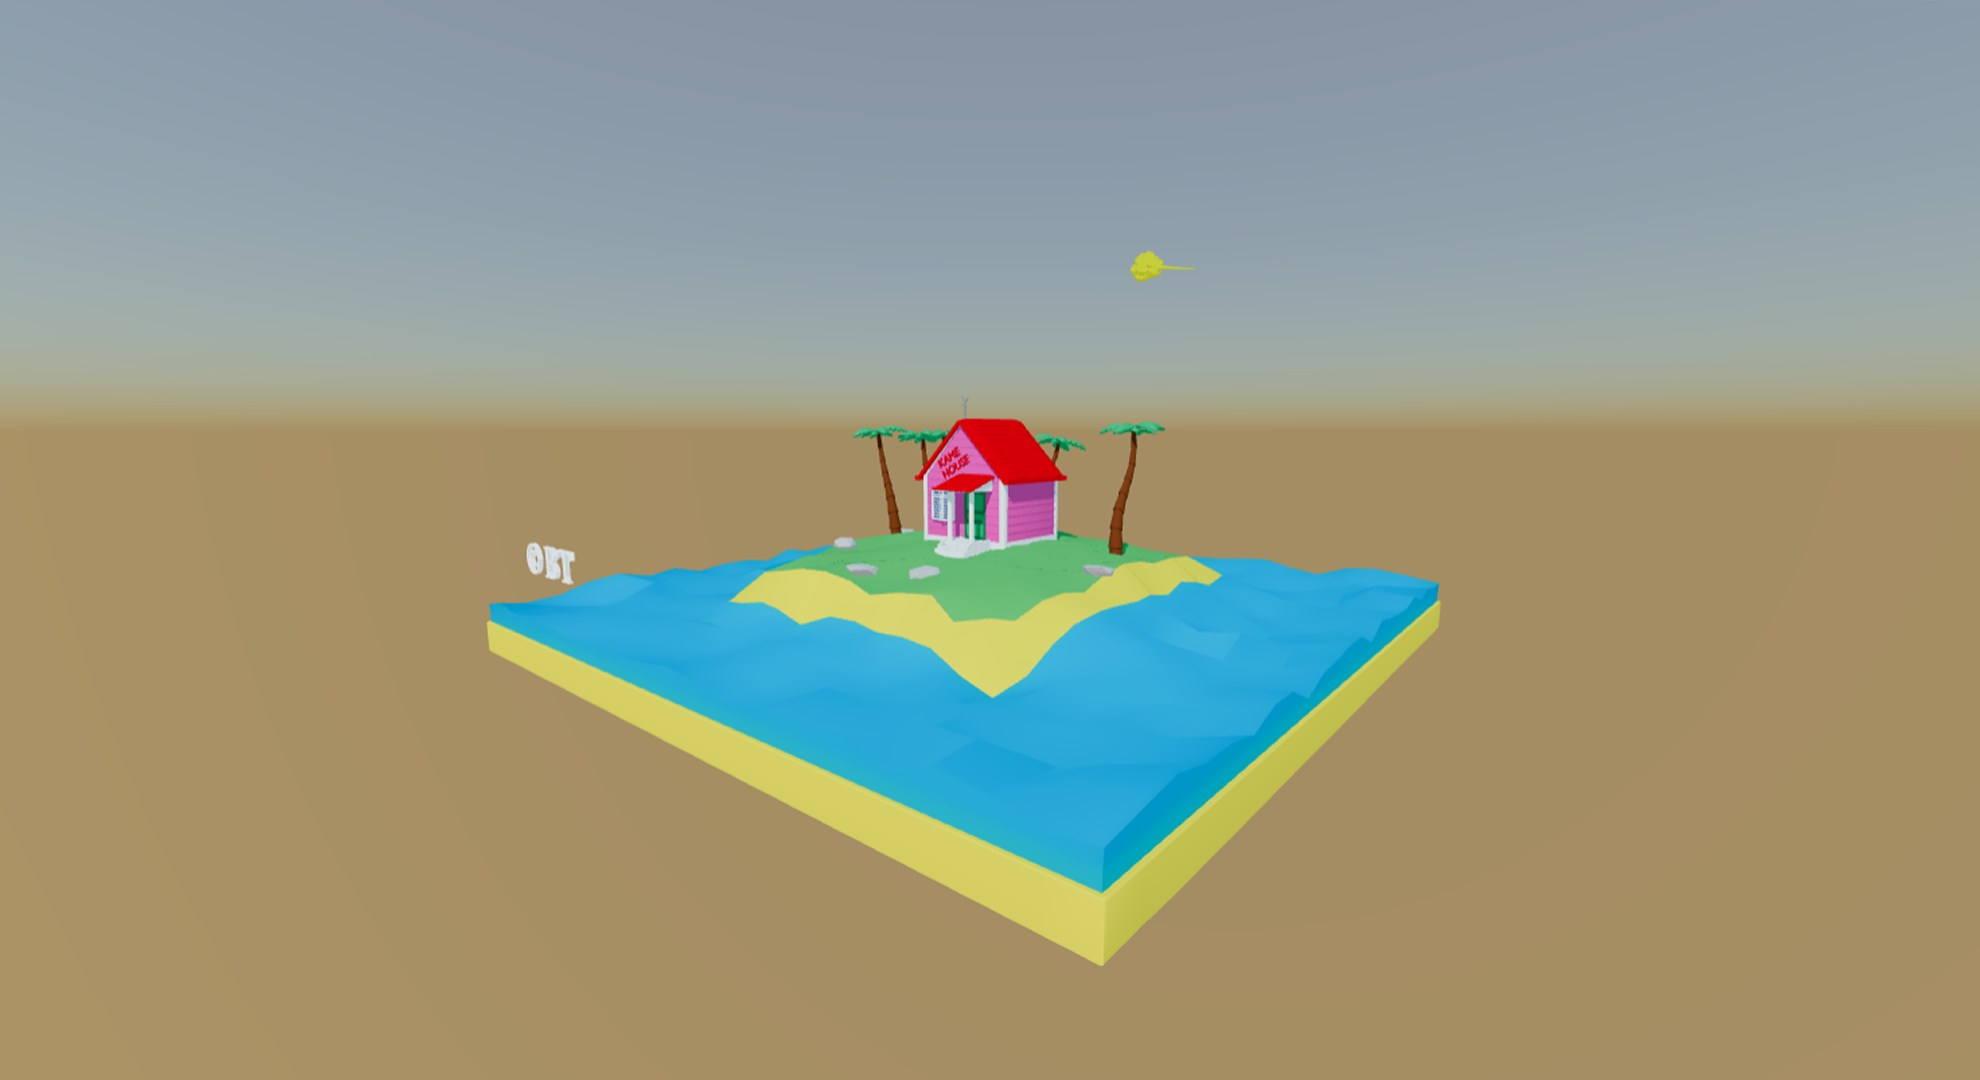
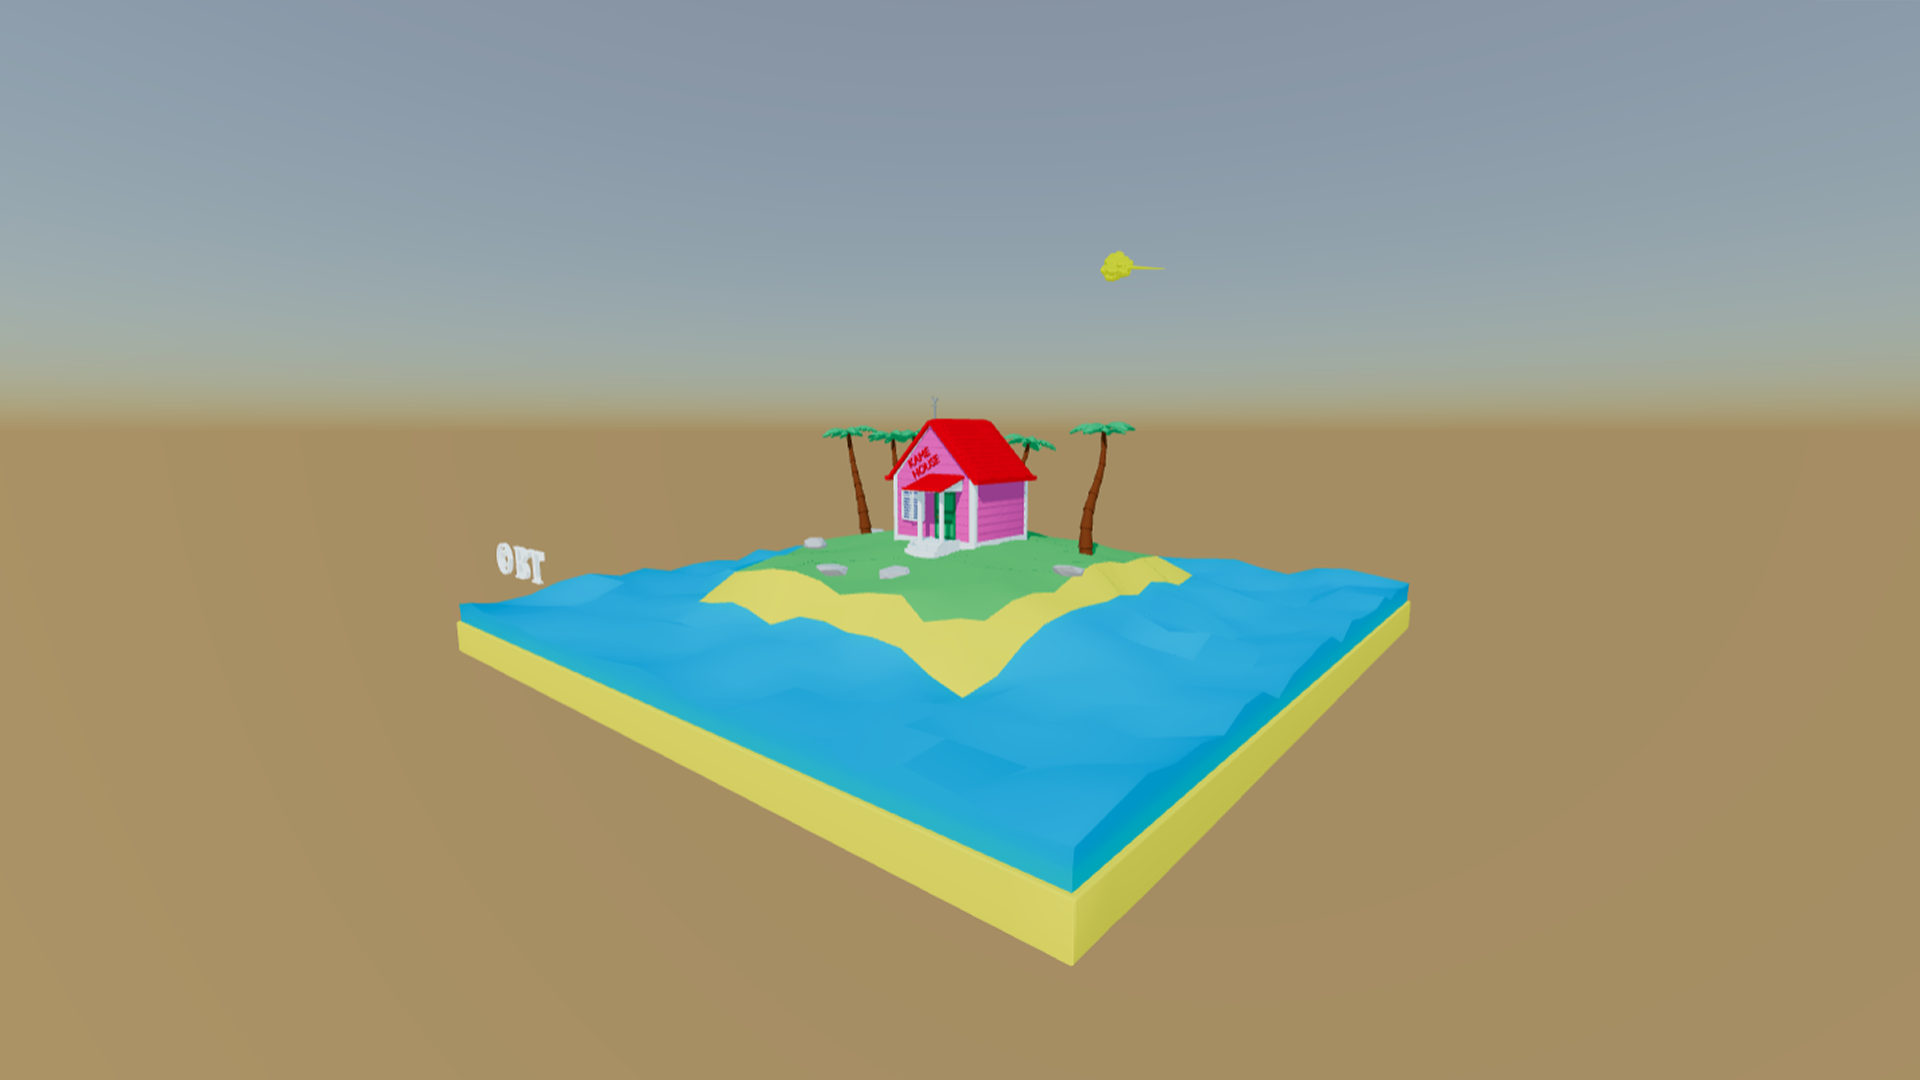
mockups update and 3d plane rezsponsive done

diff --git a/src/experience/Experience.jsx b/src/experience/Experience.jsx
@@ -1,11 +1,15 @@
 // Depedencies
 import * as THREE from "three";
-import { useEffect, useRef } from "react";
+import { useEffect, useRef, useState } from "react";
 import gsap from "gsap";
+import { log } from "three/src/nodes/TSL.js";
 // import vertexShader from "./shaders/vertex.glsl";
 // import fragmentShader from "./shaders/fragment.glsl";
 
 export default function Experience({ isProjectPage }) {
+  const [isScreenLarger960, handleIsScreenLarger960] = useState(
+    window.innerWidth > 960
+  );
   const canvas = useRef(null);
   const renderer = useRef(null);
   const camera = useRef(null);
@@ -15,74 +19,64 @@ export default function Experience({ isProjectPage }) {
     height: window.innerHeight,
     aspect: window.innerWidth / window.innerHeight,
   });
-  const planes = useRef([]); // Stocker les plans pour les mettre à jour plus facilement
+  const planes = useRef([]);
 
   const textureLoader = new THREE.TextureLoader();
 
   const updatePlanesSizeAndPosition = () => {
+    handleIsScreenLarger960(window.innerWidth > 960);
+
     sizes.current.width = window.innerWidth;
     sizes.current.height = window.innerHeight;
     sizes.current.aspect = sizes.current.width / sizes.current.height;
 
     // Met à jour l'orthographic camera
-    camera.current.left = -2 * sizes.current.aspect;
-    camera.current.right = 2 * sizes.current.aspect;
+    camera.current.aspect = sizes.current.aspect;
     camera.current.updateProjectionMatrix();
 
-    renderer.current.setSize(sizes.current.width, sizes.current.height);
-    renderer.current.setPixelRatio(Math.min(window.devicePixelRatio, 2));
-
-    // Met à jour le scale et la position des plans pour qu'ils s'ajustent au viewport
     planes.current.forEach(({ plane, htmlElement, index }) => {
       if (!htmlElement) return;
 
-      const boundingBox = htmlElement.getBoundingClientRect();
+      const distance = 6 - 0; // Position du plan
+      const height = 2 * Math.tan((35 * Math.PI) / 360) * distance;
+      const width = height * sizes.current.aspect;
 
-      // Position normalisée (-1 à 1)
-      const normalizedX =
-        index % 2 === 0
-          ? ((boundingBox.left + boundingBox.right) / 2 / window.innerWidth) *
-              2 -
-            2.7
-          : ((boundingBox.left + boundingBox.right) / 2 / window.innerWidth) *
-              2 +
-            0.8;
+      // Adapter la taille du Plane pour qu'il ne dépasse pas
 
-      const normalizedY =
-        index % 2 === 0
-          ? (-(boundingBox.top + boundingBox.bottom) / 2 / window.innerHeight) *
-              2 +
-            0.5
-          : (-(boundingBox.top + boundingBox.bottom) / 2 / window.innerHeight) *
-              2 +
-            2 -
-            2.75;
+      if (isScreenLarger960) plane.scale.setScalar(width * 0.325);
 
-      // Convertir en coordonnées 3D
-      const vector = new THREE.Vector3(normalizedX, normalizedY, 0);
-      vector.unproject(camera.current);
+      if (!isScreenLarger960) plane.scale.setScalar(width * 0.5);
 
-      // Mettre à jour la position du plane
-      plane.position.set(normalizedX, normalizedY, 0);
+      if (isScreenLarger960)
+        plane.position.x =
+          index % 2 === 0
+            ? -width / 2 + plane.scale.x * 1
+            : width / 2 - plane.scale.x * 0.95;
 
-      // Mettre à jour la taille du plane en fonction du HTML
-      const planeWidth =
-        (boundingBox.width / sizes.current.width) * 130 * sizes.current.aspect;
-
-      console.log(boundingBox.width);
-
-      plane.scale.setScalar(planeWidth);
+      // Handle position depending on isScreenLarger960 state because of the media queries
+      if (!isScreenLarger960) plane.position.x = 0;
     });
+
+    renderer.current.setSize(sizes.current.width, sizes.current.height);
+    renderer.current.setPixelRatio(Math.min(window.devicePixelRatio, 2));
   };
 
   useEffect(() => {
+    if (!isScreenLarger960 === null) return;
     window.addEventListener("resize", updatePlanesSizeAndPosition);
     return () =>
       window.removeEventListener("resize", updatePlanesSizeAndPosition);
-  }, []);
+  }, [isScreenLarger960]);
 
   useEffect(() => {
     const scene = new THREE.Scene();
+
+    projectsGroup.current.clear();
+    planes.current.forEach(({ plane }) => {
+      plane.geometry.dispose();
+      plane.material.dispose();
+    });
+    planes.current = [];
 
     const htmlElements = [
       document.querySelector("#project1"),
@@ -105,54 +99,24 @@ export default function Experience({ isProjectPage }) {
       });
       const plane = new THREE.Mesh(planeGeometry, planeMaterial);
 
+      if (isScreenLarger960) plane.position.y = index % 2 === 0 ? -3.75 : -6.8;
+      if (!isScreenLarger960) plane.position.y = index % 2 === 0 ? -4.15 : -7.9;
+
       projectsGroup.current.add(plane);
       planes.current[index] = { plane, htmlElement, index };
     });
 
-    // Mockups Texture
-    // const mockup1 = textureLoader.load("/img/mockups/1.png");
-    // mockup1.minFilter = THREE.LinearFilter;
-    // mockup1.magFilter = THREE.LinearFilter;
-    // mockup1.colorSpace = THREE.SRGBColorSpace;
-
-    // const mockup2 = textureLoader.load("/img/mockups/2.png");
-    // mockup2.minFilter = THREE.LinearFilter;
-    // mockup2.magFilter = THREE.LinearFilter;
-    // mockup2.colorSpace = THREE.SRGBColorSpace;
-
-    // const planeMaterial = new THREE.MeshBasicMaterial({ map: mockup1 });
-    // const planeMaterial2 = new THREE.MeshBasicMaterial({ map: mockup2 });
-
-    // const plane = new THREE.Mesh(planeGeometryPaysage, planeMaterial);
-
-    // const plane2 = new THREE.Mesh(planeGeometryPaysage, planeMaterial2);
-
-    // plane.position.x = -1.45;
-    // plane.position.y = isProjectPage ? -2 : -2;
-    // plane.name = "plane 1";
-    // plane2.position.x = 1.45;
-    // plane2.position.y = isProjectPage ? -15.85 : -5.5;
-    // plane2.name = "plane 2";
-
-    // plane.scale.setScalar(sizes.current.width / 7000);
-    // plane2.scale.setScalar(sizes.current.width / 7000);
-    // projectsGroup.current.position.y = -1.1 / (sizes.current.width / 7000);
-
-    // projectsGroup.current.add(plane, plane2);
-
     scene.add(projectsGroup.current);
 
     // Camera
-    camera.current = new THREE.OrthographicCamera(
-      -2 * sizes.current.aspect,
-      2 * sizes.current.aspect,
-      2,
-      -2,
+    camera.current = new THREE.PerspectiveCamera(
+      35,
+      sizes.current.aspect,
       0.01,
       10
     );
 
-    camera.current.position.z = 3;
+    camera.current.position.z = 6;
     scene.add(camera.current);
 
     // Renderer
@@ -165,15 +129,16 @@ export default function Experience({ isProjectPage }) {
     renderer.current.setSize(sizes.current.width, sizes.current.height);
     renderer.current.setPixelRatio(Math.min(window.devicePixelRatio, 2));
 
-    gsap.to(projectsGroup.current.position, {
-      y: isProjectPage ? 13 : 13,
+    gsap.to(camera.current, {
       scrollTrigger: {
         trigger: "#projects",
         start: isProjectPage ? "-10% bottom" : "top 85%",
         end: isProjectPage ? "200% top" : "150% top",
-        scrub: true,
-        markers: true,
+        // markers: true,
         toggleActions: "play none reverse none",
+        onUpdate: (self) => {
+          camera.current.position.y = -self.progress * 15;
+        },
       },
     });
 
@@ -181,9 +146,6 @@ export default function Experience({ isProjectPage }) {
      * Animate
      */
     const tick = () => {
-      // Update controls
-      // controls.update();
-
       // Render
       renderer.current.render(scene, camera.current);
 
@@ -220,24 +182,4 @@ export default function Experience({ isProjectPage }) {
       <canvas ref={canvas} className="webgl" />
     </>
   );
-}
-
-{
-  /* <button
-style={{
-  position: "fixed",
-  bottom: "64px",
-  right: "64px",
-  zIndex: 100,
-  background: "darkgrey",
-  color: "white",
-  cursor: "pointer",
-}}
-onClick={() => {
-  camera.current.position.y--;
-  console.log(camera.current.position.y);
-}}
->
-Descend
-</button> */
 }

diff --git a/src/pages/Index.jsx b/src/pages/Index.jsx
@@ -12,7 +12,7 @@ import Experience from "../experience/Experience.jsx";
 
 gsap.registerPlugin(ScrollTrigger);
 
-export default function Index() {
+export default function Index({ isLargeScreen }) {
   const projects = useRef();
   const gallery = useRef();
   const footer = useRef();
@@ -64,7 +64,7 @@ export default function Index() {
   return (
     <>
       <Hero page="index" />
-      <Experience />
+      <Experience isLargeScreen={isLargeScreen} />
       <Quote />
       <div ref={projects}>
         <Projects count={2} cta={true} title={true} />
